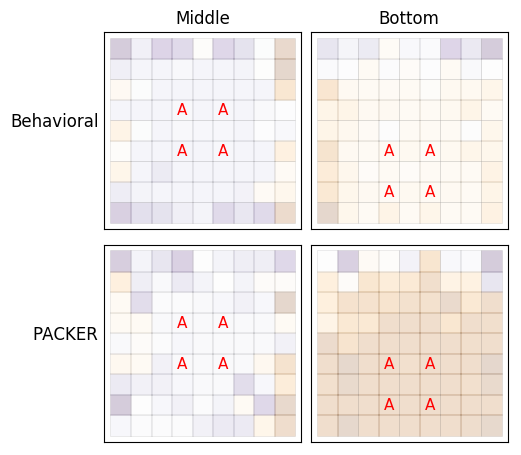
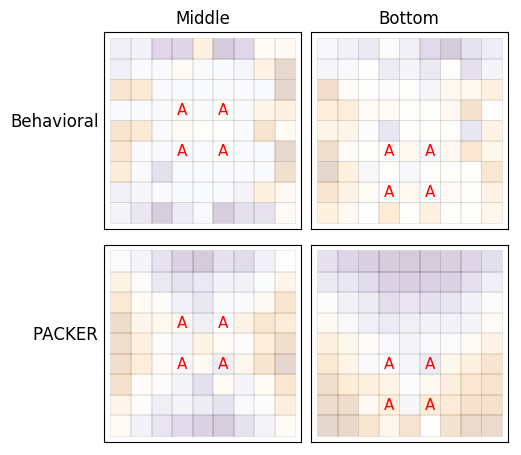
bayes update for range diff figure

diff --git a/Experiments/middle-bottom/modeling/plot.range.x.location.py b/Experiments/middle-bottom/modeling/plot.range.x.location.py
@@ -18,6 +18,8 @@ alphas = pd.read_sql_query("SELECT * from alphas", con)
 stimuli = pd.read_sql_query("SELECT * from stimuli", con).as_matrix()
 con.close()
 
+# assumed distribution of range differential
+sig = 0.2
 
 # make a template df
 template_df = pd.DataFrame(utils.cartesian([[0,1], range(stimuli.shape[0])]), 
@@ -27,6 +29,8 @@ for i, c in enumerate(pd.unique(info.condition)):
 template_df['drange'] = 0
 template_df['size'] = 0
 template_df['stimulus'] = template_df['stimulus'].astype(int)
+
+# condition, stimulus, mean, variance, n
 
 # fill out template with behavioral data
 observed = template_df.copy()
@@ -50,7 +54,7 @@ params = dict(
         determinism = 1.99990124401,
         )
 
-nsamples = 1
+nsamples = 50
 
 simulated = template_df.copy()
 for i, row in stats.groupby('participant'):
@@ -61,7 +65,7 @@ for i, row in stats.groupby('participant'):
 	rs = np.array(row[['xrange','yrange']])[0]
 	rs = 1.0 / (rs + 1.0/9.0)
 	params['wts'] = rs / float(np.sum(rs))
-	params['wts'] = np.array([0.5, 0.5])
+	# params['wts'] = np.array([0.5, 0.5])
 
 	model = Packer([As], params)
 	for j in range(nsamples):	
@@ -76,7 +80,8 @@ for i, row in stats.groupby('participant'):
 		simulated.loc[idx, 'drange'] += drange
 		simulated.loc[idx, 'size'] += 1
 
-print simulated
+
+
 # plotting
 f, ax = plt.subplots(2,2,figsize = (5,5))
 for colnum, c in enumerate(pd.unique(info.condition)):
@@ -87,18 +92,13 @@ for colnum, c in enumerate(pd.unique(info.condition)):
 
 		x = stimuli[df.stimulus,0]
 		y = stimuli[df.stimulus,1]
-
-
-		# compute color
-		# vals = df.drange / df['size']
-		# vals = ((vals + 2.) / 4.).as_matrix()
-		# vals[np.isnan(vals)] = 0.5
-
 		
-		# n = sum(df['size']) / 4
-		vals = df.drange.as_matrix() / sum(df['size'])
-		vals = vals * 10 + 0.5
-		vals[np.isnan(vals)] = 0.5
+
+		sumx = df.drange.as_matrix()
+		n = df['size'].as_matrix()
+		vals  = (0.0/sig +  sumx / sig) / (1.0/sig + n / sig)
+		vals = (vals + 2.0) / 4.0
+
 		print c, j, min(vals), max(vals)
 
 		alpha = 1.

diff --git a/Experiments/readme.md b/Experiments/readme.md
@@ -18,4 +18,4 @@ https://alab.psych.wisc.edu/experiments/generate-categories/?assignmentId=12ALON
 ## Data Weirdness
 
 1. Sometimes the final 25 characters are appended twice to the end of the JSON data files? 
- 2. Some participants are not assigned a finish time, but are marked as complete. I think these may be the same as those with weird JSON above.
+2. Some participants are not assigned a finish time, but are marked as complete. I think these may be the same as those with weird JSON above.
